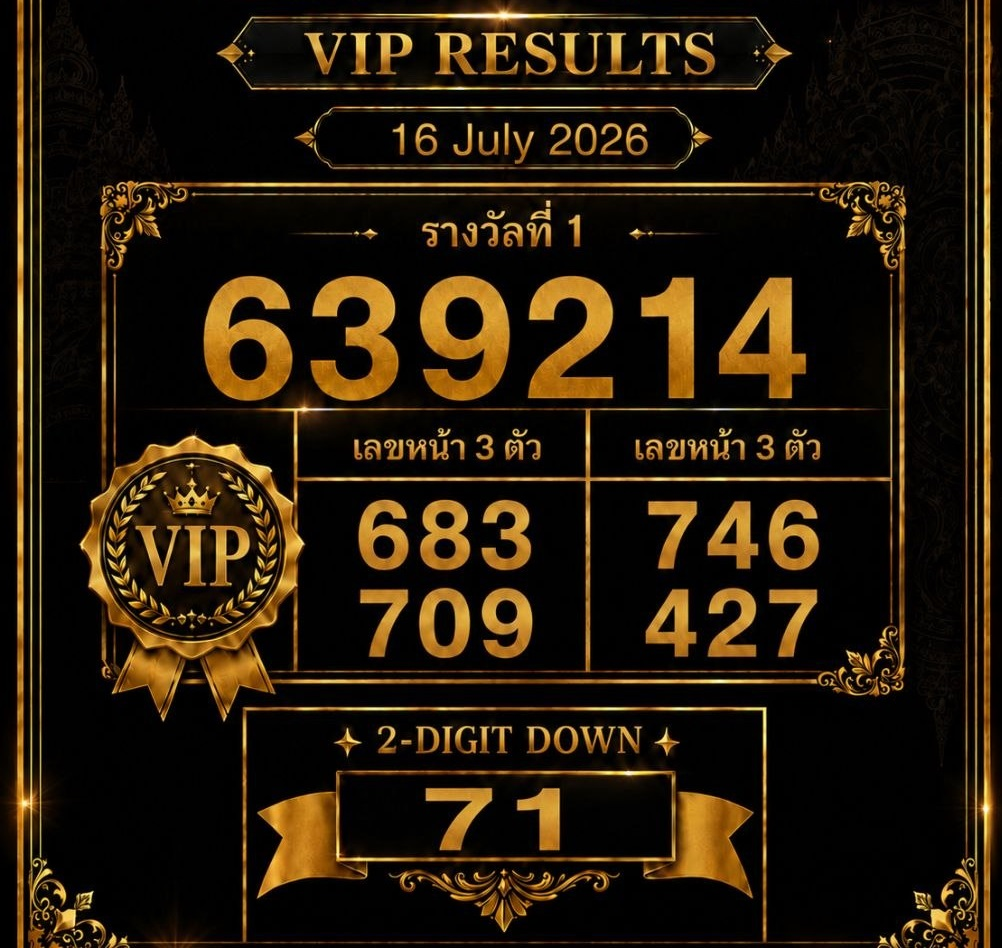
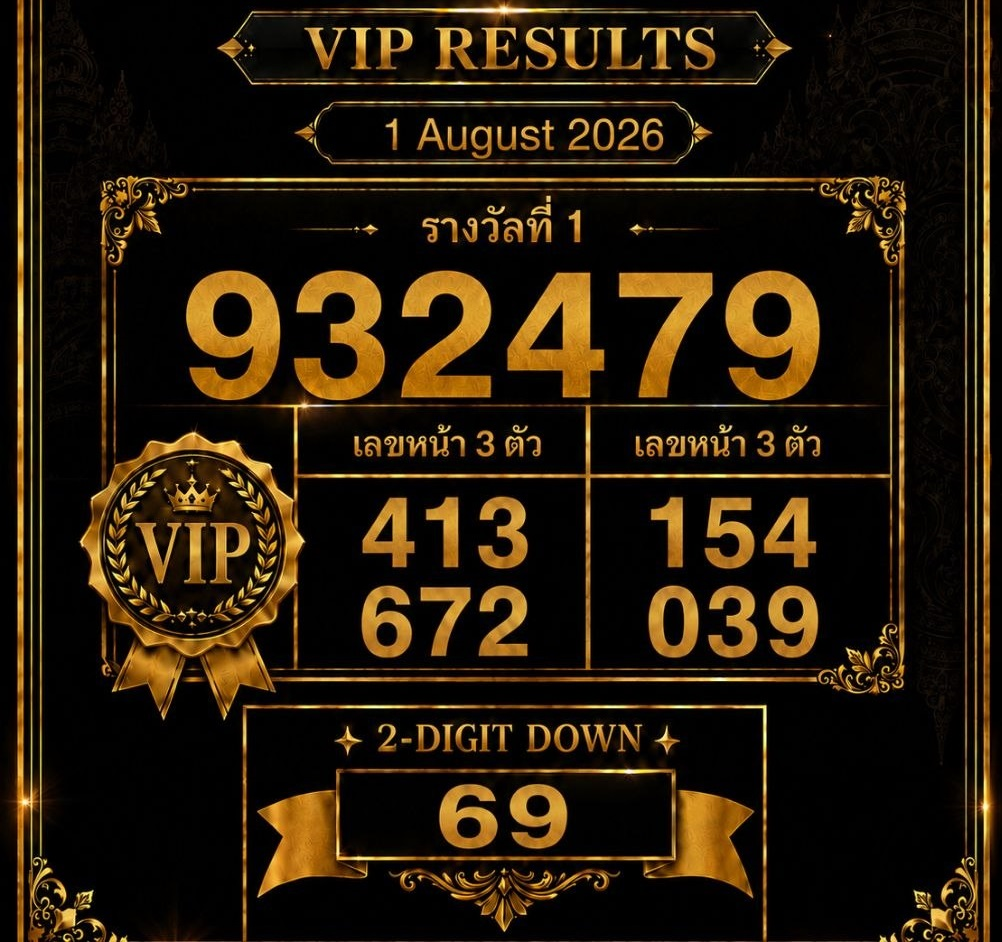
Update results and website assets

Changed region(s): [[0.0, 0.0, 1.0, 1.0], [0.0928, 0.0, 0.9281, 0.4926], [0.0, 0.8312, 0.0619, 0.862]]

diff --git a/results.html b/results.html
@@ -86,9 +86,10 @@ if(localStorage.getItem("access_granted") !== "yes"){
 <section class="section">
   <div class="container">
   
+
 	 <!-- ===== RESULTS BLOCK ===== --> 
 	  <div class="result-box">
-      <div class="result-header">01/08/2026 — Tuesday</div>
+      <div class="result-header">16/08/2026 — Sunday</div>
       <div class="result-grid">
         <div><strong>Fast Prize</strong><br><strong></strong></div>
         <div><strong>Down</strong><br><strong></strong></div>
@@ -96,6 +97,19 @@ if(localStorage.getItem("access_granted") !== "yes"){
         <div><strong>3 Front B</strong><br><strong></strong></div>
         <div><strong>3 After A</strong><br><strong></strong></div>
         <div><strong>3 After B</strong><br><strong></strong></div>
+      </div>
+      </div>
+      
+      <!-- ===== RESULTS BLOCK ===== --> 
+	  <div class="result-box">
+      <div class="result-header">01/08/2026 — Tuesday</div>
+      <div class="result-grid">
+        <div><strong>Fast Prize</strong><br><strong>932479</strong></div>
+        <div><strong>Down</strong><br><strong>69</strong></div>
+        <div><strong>3 Front A</strong><br><strong>413</strong></div>
+        <div><strong>3 Front B</strong><br><strong>672</strong></div>
+        <div><strong>3 After A</strong><br><strong>154</strong></div>
+        <div><strong>3 After B</strong><br><strong>039</strong></div>
       </div>
       </div>
       <!-- ===== RESULTS BLOCK ===== --> 
